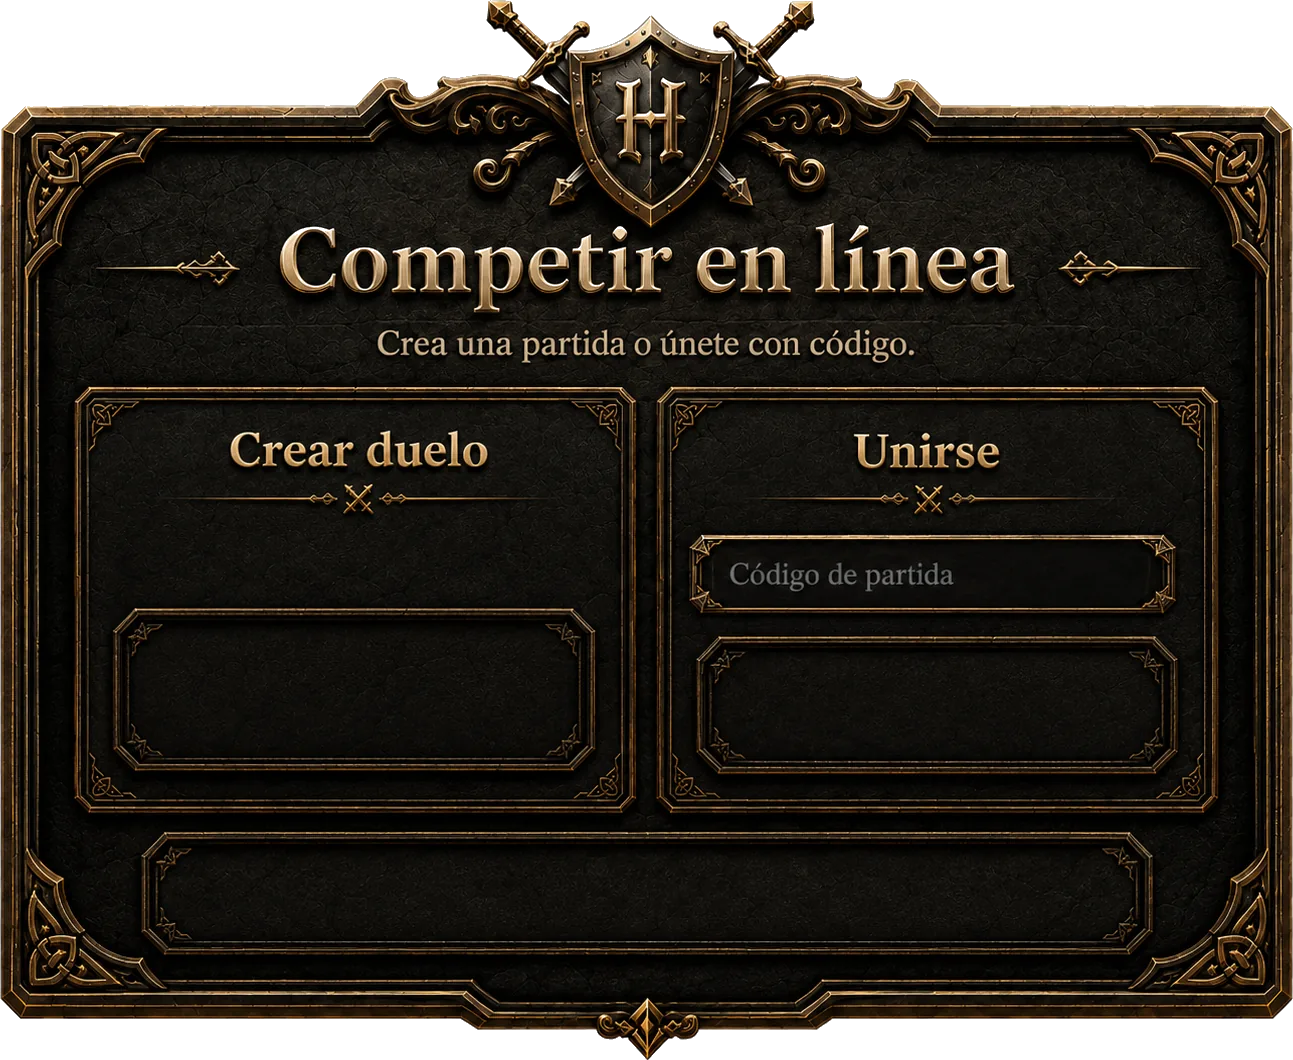
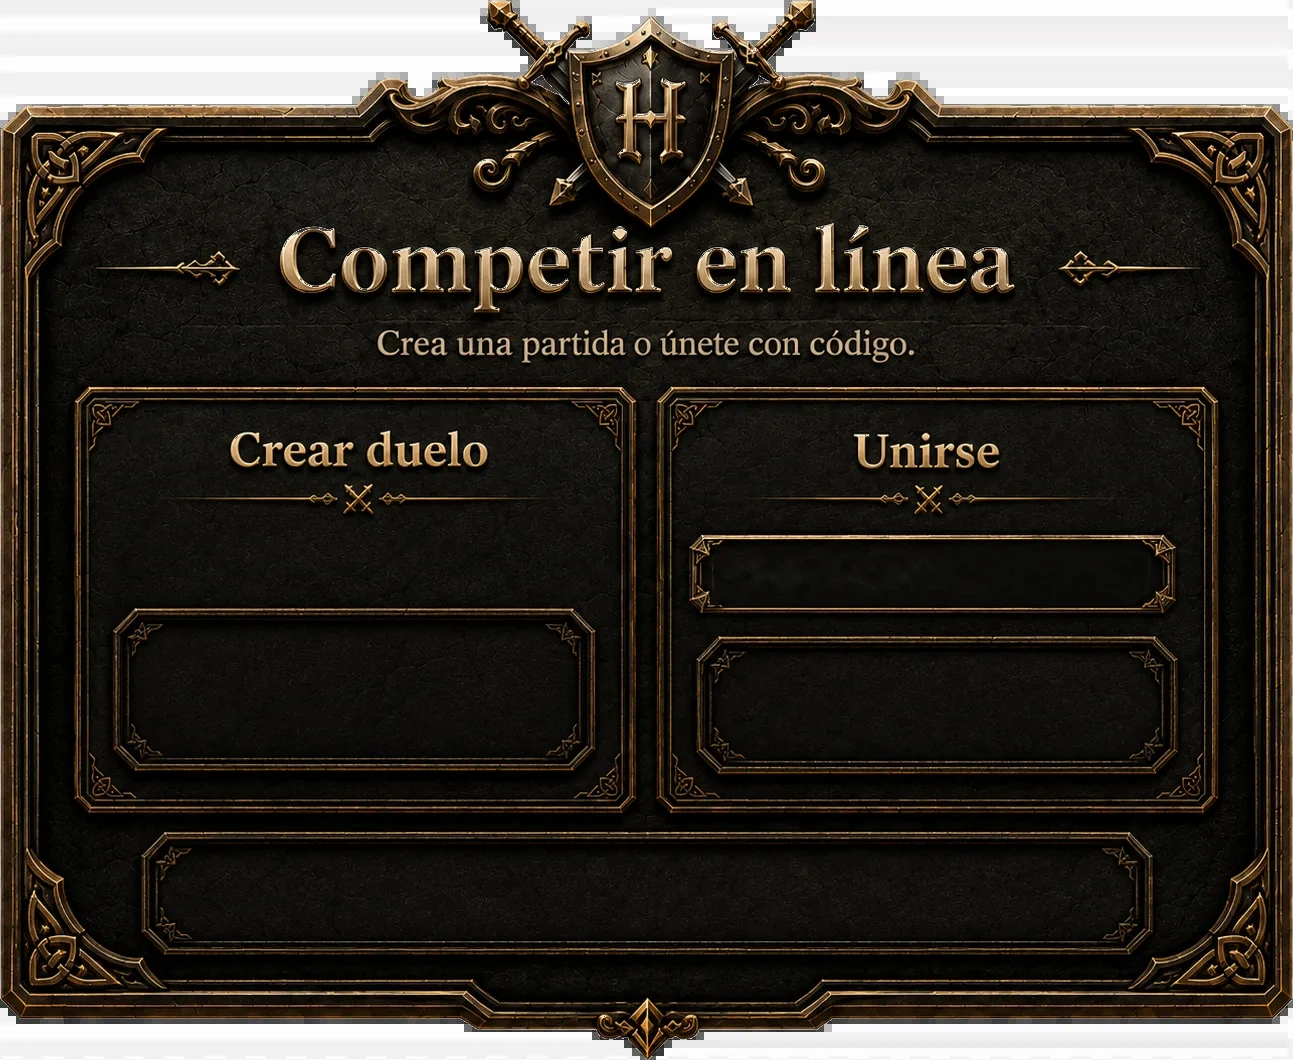
Add files via upload

diff --git a/index.html b/index.html
@@ -3,7 +3,7 @@
 <head>
 <meta charset="UTF-8"/>
 <meta name="viewport" content="width=device-width, initial-scale=1.0"/>
-<title>HallValla Home 0.7B - Modal input corregido</title>
+<title>HallValla Home 0.7C - Modal visual limpio</title>
 <style>
 :root{--gold:#ffd166;--text:#fff4df;--muted:#d7c3a2;--p1:#66d9ff;--p2:#ff74b8;--ok:#70e08a;--bad:#ef476f}
 *{box-sizing:border-box}body{margin:0;min-height:100vh;font-family:Arial,Helvetica,sans-serif;color:var(--text);background:#090604}button{font-family:inherit}
@@ -445,7 +445,7 @@
   height:100%;
   border:0;
   outline:0;
-  background:linear-gradient(180deg,rgba(8,8,8,.96),rgba(1,1,1,.92));
+  background:transparent;
   color:#ffe8b7;
   font-size:clamp(13px,1.35vw,22px);
   font-weight:800;
@@ -454,7 +454,8 @@
   border-radius:10px;
   text-transform:uppercase;
   text-shadow:0 2px 3px rgba(0,0,0,.85);
-  box-shadow:inset 0 0 18px rgba(0,0,0,.78),0 0 0 1px rgba(255,209,102,.18);
+  box-shadow:none;
+  caret-color:#ffd166;
 }
 .visual-code-input::placeholder{
   color:rgba(225,210,180,.62);
@@ -659,7 +660,7 @@
     </button>
 
     <div class="visual-input-wrap">
-      <input id="joinCode" class="visual-code-input" placeholder="Código de partida" maxlength="8" autocomplete="off"/>
+      <input id="joinCode" class="visual-code-input" aria-label="Código de partida" maxlength="8" autocomplete="off"/>
     </div>
 
     <button id="joinBtn" class="visual-btn visual-join" type="button" aria-label="Unirse">
